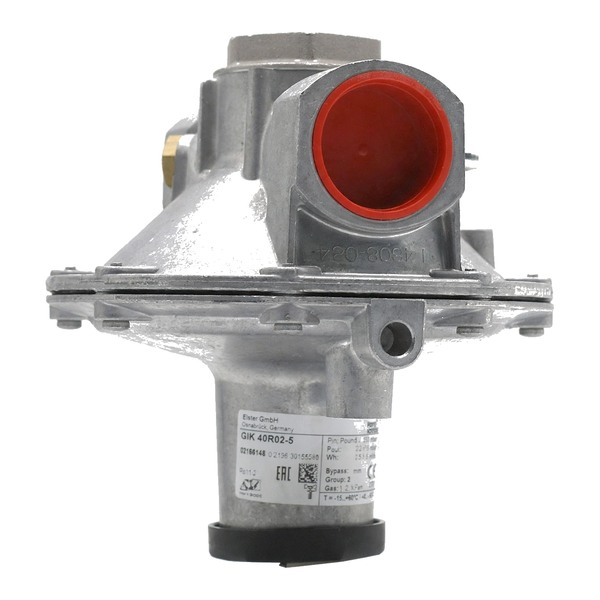
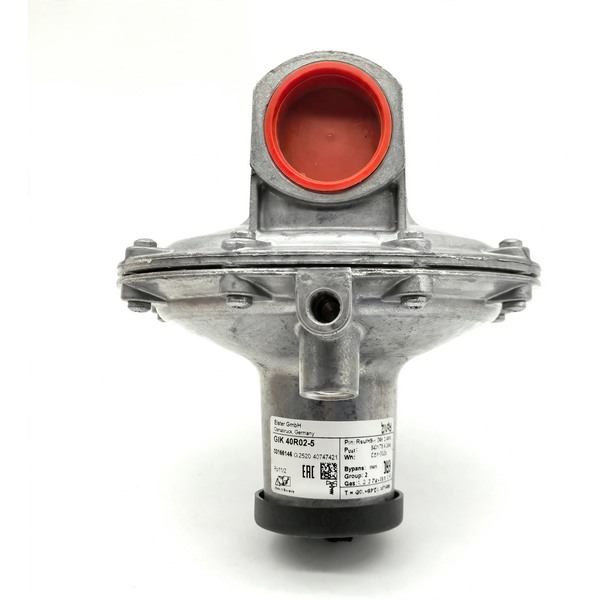
Update GIK 40R02-5 photo and correct Part No. to 03166146
Clearer nameplate photo shows Part No. 03166146, not the earlier-read
02166148 (misread from a blurry photo). Corrected across product page,
products-data.js, related-products-data.js, ratio-regulators category
pages, and the Honeywell Kromschröder brand page; product image replaced.

Claude-Session: https://claude.ai/code/session_01LFexn24yUqWXWk5Q2oJaXx

diff --git a/products/kromschroder-gik-40r02-5-ratio-regulator.html b/products/kromschroder-gik-40r02-5-ratio-regulator.html
@@ -10,12 +10,12 @@
 <link rel="icon" type="image/png" sizes="32x32" href="../images/favicon-32.png">
 <link rel="apple-touch-icon" sizes="180x180" href="../images/apple-touch-icon-180.png">
 <title>Honeywell Kromschröder GIK 40R02-5 Air/Gas Ratio | RKIC</title>
-<meta name="description" content="Honeywell Kromschröder GIK 40R02-5 Air/Gas Ratio Regulator — Ratio Regulators. Model: GIK 40R02-5. Part No.: 02166148. Trusted supplier across India.">
-<meta name="keywords" content="Honeywell Kromschröder, GIK 40R02-5, 02166148, Air Gas Ratio Regulator, Ratio Control, Ratio Regulator, Honeywell Kromschröder GIK 40R02-5 Air Gas Ratio Regulator, Surat, Gujarat, India, industrial instruments">
+<meta name="description" content="Honeywell Kromschröder GIK 40R02-5 Air/Gas Ratio Regulator — Ratio Regulators. Model: GIK 40R02-5. Part No.: 03166146. Trusted supplier across India.">
+<meta name="keywords" content="Honeywell Kromschröder, GIK 40R02-5, 03166146, Air Gas Ratio Regulator, Ratio Control, Ratio Regulator, Honeywell Kromschröder GIK 40R02-5 Air Gas Ratio Regulator, Surat, Gujarat, India, industrial instruments">
 <link rel="canonical" href="https://rkic1976-bot.github.io/RKIC-SITE/products/kromschroder-gik-40r02-5-ratio-regulator.html">
 <meta property="og:type" content="product">
 <meta property="og:title" content="Honeywell Kromschröder GIK 40R02-5 Air/Gas Ratio Regulator">
-<meta property="og:description" content="The Honeywell Kromschröder GIK 40R02-5 (Part No. 02166148) is an air/gas ratio control that maintains a constant 1:1 gas/air pressure ratio (1:10 turndown) upstream of gas burners in systems without preheated combustion air. Sized for DN 40 / Rp 1½ connections, it is rated for a maximum inlet pressure of 200 mbar, a control (load) pressure range of 0.5 to 120 mbar, an outlet (gas) pressure range of 0.2 to 119 mbar, and a maximum differential pressure of 100 mbar. Suitable for natural gas, town gas, LPG (gaseous) and biogas, it features an aluminium-silicon alloy housing with NBR diaphragms and seals, a brass bypass screw, and an outlet pressure test point, rated for &minus;15°C to +60°C ambient operation (per nameplate). EU certified to (EU) 2016/426 (GAR) and EN 88-1:2011+A1:2016. Manufactured by Honeywell Kromschröder (Elster GmbH, Osnabrück, Germany).">
+<meta property="og:description" content="The Honeywell Kromschröder GIK 40R02-5 (Part No. 03166146) is an air/gas ratio control that maintains a constant 1:1 gas/air pressure ratio (1:10 turndown) upstream of gas burners in systems without preheated combustion air. Sized for DN 40 / Rp 1½ connections, it is rated for a maximum inlet pressure of 200 mbar, a control (load) pressure range of 0.5 to 120 mbar, an outlet (gas) pressure range of 0.2 to 119 mbar, and a maximum differential pressure of 100 mbar. Suitable for natural gas, town gas, LPG (gaseous) and biogas, it features an aluminium-silicon alloy housing with NBR diaphragms and seals, a brass bypass screw, and an outlet pressure test point, rated for &minus;15°C to +60°C ambient operation (per nameplate). EU certified to (EU) 2016/426 (GAR) and EN 88-1:2011+A1:2016. Manufactured by Honeywell Kromschröder (Elster GmbH, Osnabrück, Germany).">
 <meta property="og:url" content="https://rkic1976-bot.github.io/RKIC-SITE/products/kromschroder-gik-40r02-5-ratio-regulator.html">
 <meta property="og:image" content="https://rkic1976-bot.github.io/RKIC-SITE/images/kromschroder-gik-40r02-5-ratio-regulator-large.jpg">
 <meta property="og:image:width" content="1100">
@@ -23,9 +23,9 @@
 <meta property="og:site_name" content="R.K. Instruments &amp; Controls">
 <meta name="twitter:card" content="summary_large_image">
 <meta name="twitter:title" content="Honeywell Kromschröder GIK 40R02-5 Air/Gas Ratio Regulator">
-<meta name="twitter:description" content="The Honeywell Kromschröder GIK 40R02-5 (Part No. 02166148) is an air/gas ratio control that maintains a constant 1:1 gas/air pressure ratio (1:10 turndown) upstream of gas burners in systems without preheated combustion air. Sized for DN 40 / Rp 1½ connections, it is rated for a maximum inlet pressure of 200 mbar, a control (load) pressure range of 0.5 to 120 mbar, an outlet (gas) pressure range of 0.2 to 119 mbar, and a maximum differential pressure of 100 mbar. Suitable for natural gas, town gas, LPG (gaseous) and biogas, it features an aluminium-silicon alloy housing with NBR diaphragms and seals, a brass bypass screw, and an outlet pressure test point, rated for &minus;15°C to +60°C ambient operation (per nameplate). EU certified to (EU) 2016/426 (GAR) and EN 88-1:2011+A1:2016. Manufactured by Honeywell Kromschröder (Elster GmbH, Osnabrück, Germany).">
+<meta name="twitter:description" content="The Honeywell Kromschröder GIK 40R02-5 (Part No. 03166146) is an air/gas ratio control that maintains a constant 1:1 gas/air pressure ratio (1:10 turndown) upstream of gas burners in systems without preheated combustion air. Sized for DN 40 / Rp 1½ connections, it is rated for a maximum inlet pressure of 200 mbar, a control (load) pressure range of 0.5 to 120 mbar, an outlet (gas) pressure range of 0.2 to 119 mbar, and a maximum differential pressure of 100 mbar. Suitable for natural gas, town gas, LPG (gaseous) and biogas, it features an aluminium-silicon alloy housing with NBR diaphragms and seals, a brass bypass screw, and an outlet pressure test point, rated for &minus;15°C to +60°C ambient operation (per nameplate). EU certified to (EU) 2016/426 (GAR) and EN 88-1:2011+A1:2016. Manufactured by Honeywell Kromschröder (Elster GmbH, Osnabrück, Germany).">
 <meta name="twitter:image" content="https://rkic1976-bot.github.io/RKIC-SITE/images/kromschroder-gik-40r02-5-ratio-regulator-large.jpg">
-<script type="application/ld+json">{"@context":"https://schema.org","@type":"Product","name":"Honeywell Kromschröder GIK 40R02-5 Air/Gas Ratio Regulator","sku":"02166148","mpn":"02166148","description":"The Honeywell Kromschröder GIK 40R02-5 (Part No. 02166148) is an air/gas ratio control that maintains a constant 1:1 gas/air pressure ratio (1:10 turndown) upstream of gas burners in systems without preheated combustion air. Sized for DN 40 / Rp 1½ connections, it is rated for a maximum inlet pressure of 200 mbar, a control (load) pressure range of 0.5 to 120 mbar, an outlet (gas) pressure range of 0.2 to 119 mbar, and a maximum differential pressure of 100 mbar. Suitable for natural gas, town gas, LPG (gaseous) and biogas, it features an aluminium-silicon alloy housing with NBR diaphragms and seals, a brass bypass screw, and an outlet pressure test point, rated for -15°C to +60°C ambient operation (per nameplate). EU certified to (EU) 2016/426 (GAR) and EN 88-1:2011+A1:2016. Manufactured by Honeywell Kromschröder (Elster GmbH, Osnabrück, Germany).","brand":{"@type":"Brand","name":"Honeywell Kromschröder"},"category":"RATIO REGULATORS","manufacturer":{"@type":"Organization","name":"Honeywell Kromschröder"},"image":"https://rkic1976-bot.github.io/RKIC-SITE/images/kromschroder-gik-40r02-5-ratio-regulator-large.jpg","url":"https://rkic1976-bot.github.io/RKIC-SITE/products/kromschroder-gik-40r02-5-ratio-regulator.html","offers":{"@type":"Offer","availability":"https://schema.org/InStock","priceCurrency":"INR","url":"https://rkic1976-bot.github.io/RKIC-SITE/products/kromschroder-gik-40r02-5-ratio-regulator.html","seller":{"@type":"Organization","name":"R.K. Instruments & Controls"}}}</script>
+<script type="application/ld+json">{"@context":"https://schema.org","@type":"Product","name":"Honeywell Kromschröder GIK 40R02-5 Air/Gas Ratio Regulator","sku":"03166146","mpn":"03166146","description":"The Honeywell Kromschröder GIK 40R02-5 (Part No. 03166146) is an air/gas ratio control that maintains a constant 1:1 gas/air pressure ratio (1:10 turndown) upstream of gas burners in systems without preheated combustion air. Sized for DN 40 / Rp 1½ connections, it is rated for a maximum inlet pressure of 200 mbar, a control (load) pressure range of 0.5 to 120 mbar, an outlet (gas) pressure range of 0.2 to 119 mbar, and a maximum differential pressure of 100 mbar. Suitable for natural gas, town gas, LPG (gaseous) and biogas, it features an aluminium-silicon alloy housing with NBR diaphragms and seals, a brass bypass screw, and an outlet pressure test point, rated for -15°C to +60°C ambient operation (per nameplate). EU certified to (EU) 2016/426 (GAR) and EN 88-1:2011+A1:2016. Manufactured by Honeywell Kromschröder (Elster GmbH, Osnabrück, Germany).","brand":{"@type":"Brand","name":"Honeywell Kromschröder"},"category":"RATIO REGULATORS","manufacturer":{"@type":"Organization","name":"Honeywell Kromschröder"},"image":"https://rkic1976-bot.github.io/RKIC-SITE/images/kromschroder-gik-40r02-5-ratio-regulator-large.jpg","url":"https://rkic1976-bot.github.io/RKIC-SITE/products/kromschroder-gik-40r02-5-ratio-regulator.html","offers":{"@type":"Offer","availability":"https://schema.org/InStock","priceCurrency":"INR","url":"https://rkic1976-bot.github.io/RKIC-SITE/products/kromschroder-gik-40r02-5-ratio-regulator.html","seller":{"@type":"Organization","name":"R.K. Instruments & Controls"}}}</script>
 <script type="application/ld+json">{"@context": "https://schema.org", "@type": "BreadcrumbList", "itemListElement": [{"@type": "ListItem", "position": 1, "name": "Home", "item": "https://rkic1976-bot.github.io/RKIC-SITE/"}, {"@type": "ListItem", "position": 2, "name": "Catalog", "item": "https://rkic1976-bot.github.io/RKIC-SITE/#catalog"}, {"@type": "ListItem", "position": 3, "name": "Ratio Regulators", "item": "https://rkic1976-bot.github.io/RKIC-SITE/categories/ratio-regulators.html"}, {"@type": "ListItem", "position": 4, "name": "Honeywell Kromschröder GIK 40R02-5 Air/Gas Ratio Regulator", "item": "https://rkic1976-bot.github.io/RKIC-SITE/products/kromschroder-gik-40r02-5-ratio-regulator.html"}]}</script>
 <link rel="preconnect" href="https://fonts.googleapis.com">
 <link href="https://fonts.googleapis.com/css2?family=Barlow+Condensed:wght@500;600;700&family=Barlow:wght@400;500;600&family=IBM+Plex+Mono:wght@400;500&display=swap" rel="stylesheet">
@@ -570,25 +570,25 @@ nav.links .nav-drop-btn:hover{ color:var(--ink); }
   <a class="pg-back" href="../categories/ratio-regulators.html">&larr; Back to Ratio Regulators</a>
   <div class="pg-grid">
     <div class="pg-img-box" id="pgImgBox">
-      <img src="../images/kromschroder-gik-40r02-5-ratio-regulator-large.webp" alt="Honeywell Kromschr&ouml;der GIK 40R02-5 Air/Gas Ratio Regulator &mdash; Ratio Regulators by Honeywell Kromschr&ouml;der, Part No. 02166148, DN40 Rp1.5" loading="lazy">
+      <img src="../images/kromschroder-gik-40r02-5-ratio-regulator-large.webp" alt="Honeywell Kromschr&ouml;der GIK 40R02-5 Air/Gas Ratio Regulator &mdash; Ratio Regulators by Honeywell Kromschr&ouml;der, Part No. 03166146, DN40 Rp1.5" loading="lazy">
       <span class="pg-zoom-hint" aria-hidden="true"><svg viewBox="0 0 24 24" fill="none" stroke="currentColor" stroke-width="2"><circle cx="11" cy="11" r="7"></circle><line x1="21" y1="21" x2="16.65" y2="16.65"></line><line x1="8" y1="11" x2="14" y2="11"></line><line x1="11" y1="8" x2="11" y2="14"></line></svg></span>
     </div>
     <div class="pg-lightbox" id="pgLightbox">
       <button class="pg-lightbox-close" id="pgLightboxClose" aria-label="Close">&times;</button>
-      <img src="../images/kromschroder-gik-40r02-5-ratio-regulator-large.webp" alt="Honeywell Kromschr&ouml;der GIK 40R02-5 Air/Gas Ratio Regulator &mdash; Ratio Regulators by Honeywell Kromschr&ouml;der, Part No. 02166148, DN40 Rp1.5 — zoomed view">
+      <img src="../images/kromschroder-gik-40r02-5-ratio-regulator-large.webp" alt="Honeywell Kromschr&ouml;der GIK 40R02-5 Air/Gas Ratio Regulator &mdash; Ratio Regulators by Honeywell Kromschr&ouml;der, Part No. 03166146, DN40 Rp1.5 — zoomed view">
     </div>
     <div>
       <div class="pg-tags">
         <span class="pg-tag">Ratio Regulators</span>
         <span class="pg-tag" style="display:inline-flex;align-items:center;padding:4px 10px;"><img class="pg-brand-logo" src="../images/pg-logos/pg-logo-honeywell-kromschroder.webp" alt="Honeywell Kromschröder logo"></span>
-        <span class="pg-tag">02166148</span>
+        <span class="pg-tag">03166146</span>
       </div>
       <h1 class="pg-title">Honeywell Kromschröder GIK 40R02-5 Air/Gas Ratio Regulator</h1>
-      <div class="pg-code mono">Product Code: 02166148 · GIK 40R02-5</div>
+      <div class="pg-code mono">Product Code: 03166146 · GIK 40R02-5</div>
       <div class="pg-specs">
 <div class="pg-spec-row"><span class="pg-spec-k">Model</span><span class="pg-spec-v">GIK 40R02-5</span></div>
 <div class="pg-spec-row"><span class="pg-spec-k">Type</span><span class="pg-spec-v">Air/Gas Ratio Control (Continuous Control, Bypass Group 2)</span></div>
-<div class="pg-spec-row"><span class="pg-spec-k">Part No.</span><span class="pg-spec-v">02166148</span></div>
+<div class="pg-spec-row"><span class="pg-spec-k">Part No.</span><span class="pg-spec-v">03166146</span></div>
 <div class="pg-spec-row"><span class="pg-spec-k">Connection Size</span><span class="pg-spec-v">DN 40, Rp 1&frac12; (internal thread)</span></div>
 <div class="pg-spec-row"><span class="pg-spec-k">Transmission Ratio</span><span class="pg-spec-v">1:1 (1:10 turndown)</span></div>
 <div class="pg-spec-row"><span class="pg-spec-k">Maximum Inlet Pressure</span><span class="pg-spec-v">200 mbar</span></div>
@@ -602,7 +602,7 @@ nav.links .nav-drop-btn:hover{ color:var(--ink); }
 <div class="pg-spec-row"><span class="pg-spec-k">Approvals</span><span class="pg-spec-v">EU certified &mdash; (EU) 2016/426 (GAR), EN 88-1:2011+A1:2016</span></div>
 <div class="pg-spec-row"><span class="pg-spec-k">Manufacturer</span><span class="pg-spec-v">Honeywell Kromschr&ouml;der (Elster GmbH, Osnabr&uuml;ck, Germany)</span></div>
       </div>
-      <p class="pg-desc">The Honeywell Kromschr&ouml;der GIK 40R02-5 (Part No. 02166148) is an air/gas ratio control that maintains a constant 1:1 gas/air pressure ratio (1:10 turndown) upstream of gas burners in systems without preheated combustion air. Sized for DN 40 / Rp 1&frac12; connections, it is rated for a maximum inlet pressure of 200 mbar, a control (load) pressure range of 0.5 to 120 mbar, an outlet (gas) pressure range of 0.2 to 119 mbar, and a maximum differential pressure of 100 mbar. Suitable for natural gas, town gas, LPG (gaseous) and biogas, it features an aluminium-silicon alloy housing with NBR diaphragms and seals, a brass bypass screw, and an outlet pressure test point, rated for &minus;15&deg;C to +60&deg;C ambient operation (per nameplate). EU certified to (EU) 2016/426 (GAR) and EN 88-1:2011+A1:2016. Manufactured by Honeywell Kromschr&ouml;der (Elster GmbH, Osnabr&uuml;ck, Germany).</p>
+      <p class="pg-desc">The Honeywell Kromschr&ouml;der GIK 40R02-5 (Part No. 03166146) is an air/gas ratio control that maintains a constant 1:1 gas/air pressure ratio (1:10 turndown) upstream of gas burners in systems without preheated combustion air. Sized for DN 40 / Rp 1&frac12; connections, it is rated for a maximum inlet pressure of 200 mbar, a control (load) pressure range of 0.5 to 120 mbar, an outlet (gas) pressure range of 0.2 to 119 mbar, and a maximum differential pressure of 100 mbar. Suitable for natural gas, town gas, LPG (gaseous) and biogas, it features an aluminium-silicon alloy housing with NBR diaphragms and seals, a brass bypass screw, and an outlet pressure test point, rated for &minus;15&deg;C to +60&deg;C ambient operation (per nameplate). EU certified to (EU) 2016/426 (GAR) and EN 88-1:2011+A1:2016. Manufactured by Honeywell Kromschr&ouml;der (Elster GmbH, Osnabr&uuml;ck, Germany).</p>
       <div class="pg-cta">
         <a class="pg-btn pg-btn-primary" href="https://wa.me/919824136145?text=Enquiry%20for%20Honeywell%20Kromschroder%20GIK%2040R02-5%20Air%20Gas%20Ratio%20Regulator" target="_blank" rel="noopener">Enquire on WhatsApp</a>
         <a class="pg-btn pg-btn-secondary" href="../contact.html">Contact Us</a>

diff --git a/products-data.js b/products-data.js
@@ -3386,13 +3386,13 @@ const products = [
       name: "Honeywell Kromschröder GIK 40R02-5 Air/Gas Ratio Regulator",
       brand: 'Honeywell Kromschröder',
       category: 'RATIO REGULATORS',
-      code: '02166148',
+      code: '03166146',
       size: "DN 40 · Rp 1½",
       image: 'images/kromschroder-gik-40r02-5-ratio-regulator-large.webp',
       specs: {
         "Model": "GIK 40R02-5",
         "Type": "Air/Gas Ratio Control (Continuous Control, Bypass Group 2)",
-        "Part No.": "02166148",
+        "Part No.": "03166146",
         "Connection Size": "DN 40, Rp 1½ (internal thread)",
         "Transmission Ratio": "1:1 (1:10 turndown)",
         "Maximum Inlet Pressure": "200 mbar",
@@ -3406,7 +3406,7 @@ const products = [
         "Approvals": "EU certified — (EU) 2016/426 (GAR), EN 88-1:2011+A1:2016",
         "Manufacturer": "Honeywell Kromschröder (Elster GmbH, Osnabrück, Germany)"
       },
-      description: "The Honeywell Kromschröder GIK 40R02-5 (Part No. 02166148) is an air/gas ratio control that maintains a constant 1:1 gas/air pressure ratio (1:10 turndown) upstream of gas burners in systems without preheated combustion air. Sized for DN 40 / Rp 1½ connections, it is rated for a maximum inlet pressure of 200 mbar, a control (load) pressure range of 0.5 to 120 mbar, an outlet (gas) pressure range of 0.2 to 119 mbar, and a maximum differential pressure of 100 mbar. Suitable for natural gas, town gas, LPG (gaseous) and biogas, it features an aluminium-silicon alloy housing with NBR diaphragms and seals, a brass bypass screw, and an outlet pressure test point, rated for −15°C to +60°C ambient operation (per nameplate). EU certified to (EU) 2016/426 (GAR) and EN 88-1:2011+A1:2016. Manufactured by Honeywell Kromschröder (Elster GmbH, Osnabrück, Germany)."
+      description: "The Honeywell Kromschröder GIK 40R02-5 (Part No. 03166146) is an air/gas ratio control that maintains a constant 1:1 gas/air pressure ratio (1:10 turndown) upstream of gas burners in systems without preheated combustion air. Sized for DN 40 / Rp 1½ connections, it is rated for a maximum inlet pressure of 200 mbar, a control (load) pressure range of 0.5 to 120 mbar, an outlet (gas) pressure range of 0.2 to 119 mbar, and a maximum differential pressure of 100 mbar. Suitable for natural gas, town gas, LPG (gaseous) and biogas, it features an aluminium-silicon alloy housing with NBR diaphragms and seals, a brass bypass screw, and an outlet pressure test point, rated for −15°C to +60°C ambient operation (per nameplate). EU certified to (EU) 2016/426 (GAR) and EN 88-1:2011+A1:2016. Manufactured by Honeywell Kromschröder (Elster GmbH, Osnabrück, Germany)."
     },
     {
       id: 'kromschroder-gik-25r02-5-ratio-regulator',

diff --git a/related-products-data.js b/related-products-data.js
@@ -169,7 +169,7 @@ const RKIC_PRODUCTS = [
   {id:"kromschroder-kfm-60-rb-63-pressure-gauge", name:"Honeywell Kromschröder KFM 60 RB 63 Pressure Gauge", brand:"Honeywell Kromschröder", category:"PRESSURE GAUGES", subcategory:null, code:"03200179", thumb:"../images/thumbs/kromschroder-kfm-60-rb-63-pressure-gauge-thumb.webp"},
   {id:"kromschroder-kfm-40-pressure-gauge", name:"Honeywell Kromschröder KFM 40 Pressure Gauge", brand:"Honeywell Kromschröder", category:"PRESSURE GAUGES", subcategory:null, code:"KFM 40", thumb:"../images/thumbs/kromschroder-kfm-40-pressure-gauge-thumb.webp"},
   {id:"kromschroder-gik-20r02-5-ratio-regulator", name:"Honeywell Kromschröder GIK 20R02-5 Air/Gas Ratio Regulator", brand:"Honeywell Kromschröder", category:"RATIO REGULATORS", subcategory:null, code:"03155122", thumb:"../images/thumbs/kromschroder-gik-20r02-5-ratio-regulator-thumb.webp"},
-  {id:"kromschroder-gik-40r02-5-ratio-regulator", name:"Honeywell Kromschröder GIK 40R02-5 Air/Gas Ratio Regulator", brand:"Honeywell Kromschröder", category:"RATIO REGULATORS", subcategory:null, code:"02166148", thumb:"../images/thumbs/kromschroder-gik-40r02-5-ratio-regulator-thumb.webp"},
+  {id:"kromschroder-gik-40r02-5-ratio-regulator", name:"Honeywell Kromschröder GIK 40R02-5 Air/Gas Ratio Regulator", brand:"Honeywell Kromschröder", category:"RATIO REGULATORS", subcategory:null, code:"03166146", thumb:"../images/thumbs/kromschroder-gik-40r02-5-ratio-regulator-thumb.webp"},
   {id:"kromschroder-gik-25r02-5-ratio-regulator", name:"Honeywell Kromschröder GIK 25R02-5 Air/Gas Ratio Regulator", brand:"Honeywell Kromschröder", category:"RATIO REGULATORS", subcategory:null, code:"02166134", thumb:"../images/thumbs/kromschroder-gik-25r02-5-ratio-regulator-thumb.webp"},
   {id:"vanaz-r2301-oxygen-pressure-regulator", name:"Vanaz R2301 Oxygen Regulator", brand:"Vanaz", category:"PRESSURE REGULATOR VALVES", subcategory:"Oxygen Regulator", code:"R2301", thumb:"../images/thumbs/vanaz-r2301-oxygen-pressure-regulator-thumb.webp"},
   {id:"danfoss-ebi4-1p-ignition-transformer", name:"Danfoss EBI4 1P Ignition Transformer", brand:"Danfoss", category:"IGNITION TRANSFORMERS", subcategory:"Ignition Transformer", code:"052F4040", thumb:"../images/thumbs/danfoss-ebi4-1p-ignition-transformer-thumb.webp"},

diff --git a/categories/ratio-regulators.html b/categories/ratio-regulators.html
@@ -603,7 +603,7 @@ nav.links .nav-drop-btn:hover{ color:var(--ink); }
     <a href="../products/kromschroder-gik-40r02-5-ratio-regulator.html" class="related-card" data-brand="Honeywell Kromschröder">
   <div class="related-thumb"><img src="../images/thumbs/kromschroder-gik-40r02-5-ratio-regulator-thumb.webp" alt="Honeywell Kromschröder GIK 40R02-5 Air/Gas Ratio Regulator" loading="lazy"><span class="related-zoom-btn" data-zoom-src="../images/kromschroder-gik-40r02-5-ratio-regulator-large.webp" data-zoom-alt="Honeywell Kromschröder GIK 40R02-5 Air/Gas Ratio Regulator" aria-hidden="true"><svg viewBox="0 0 24 24" fill="none" stroke="currentColor" stroke-width="2"><circle cx="11" cy="11" r="7"></circle><line x1="21" y1="21" x2="16.65" y2="16.65"></line><line x1="8" y1="11" x2="14" y2="11"></line><line x1="11" y1="8" x2="11" y2="14"></line></svg></span></div>
   <div class="related-name">Honeywell Kromschröder GIK 40R02-5 Air/Gas Ratio Regulator</div>
-  <div class="related-code">Honeywell Kromschröder &middot; Code 02166148</div>
+  <div class="related-code">Honeywell Kromschröder &middot; Code 03166146</div>
 </a>
     <a href="../products/madas-ag-rc-dn25-ratio-regulator.html" class="related-card" data-brand="Madas">
   <div class="related-thumb"><img src="../images/thumbs/madas-ag-rc-dn25-ratio-regulator-thumb.webp" alt="Madas AG/RC DN25 Air/Gas Ratio Regulator" loading="lazy"><span class="related-zoom-btn" data-zoom-src="../images/madas-ag-rc-dn25-ratio-regulator-large.webp" data-zoom-alt="Madas AG/RC DN25 Air/Gas Ratio Regulator" aria-hidden="true"><svg viewBox="0 0 24 24" fill="none" stroke="currentColor" stroke-width="2"><circle cx="11" cy="11" r="7"></circle><line x1="21" y1="21" x2="16.65" y2="16.65"></line><line x1="8" y1="11" x2="14" y2="11"></line><line x1="11" y1="8" x2="11" y2="14"></line></svg></span></div>

diff --git a/brands/honeywell-kromschroder.html b/brands/honeywell-kromschroder.html
@@ -662,7 +662,7 @@ nav.links .nav-drop-btn:hover{ color:var(--ink); }
     <a href="../products/kromschroder-gik-40r02-5-ratio-regulator.html" class="related-card">
   <div class="related-thumb"><img src="../images/thumbs/kromschroder-gik-40r02-5-ratio-regulator-thumb.webp" alt="Honeywell Kromschröder GIK 40R02-5 Air/Gas Ratio Regulator" loading="lazy"><span class="related-zoom-btn" data-zoom-src="../images/kromschroder-gik-40r02-5-ratio-regulator-large.webp" data-zoom-alt="Honeywell Kromschröder GIK 40R02-5 Air/Gas Ratio Regulator" aria-hidden="true"><svg viewBox="0 0 24 24" fill="none" stroke="currentColor" stroke-width="2"><circle cx="11" cy="11" r="7"></circle><line x1="21" y1="21" x2="16.65" y2="16.65"></line><line x1="8" y1="11" x2="14" y2="11"></line><line x1="11" y1="8" x2="11" y2="14"></line></svg></span></div>
   <div class="related-name">Honeywell Kromschröder GIK 40R02-5 Air/Gas Ratio Regulator</div>
-  <div class="related-code">Honeywell Kromschröder &middot; Code 02166148</div>
+  <div class="related-code">Honeywell Kromschröder &middot; Code 03166146</div>
 </a>
     <a href="../products/kromschroder-connex-l4x40-ignition-spare.html" class="related-card">
   <div class="related-thumb"><img src="../images/thumbs/kromschroder-connex-l4x40-ignition-spare-thumb.webp" alt="Honeywell Kromschröder Connex Light Spring Pin L4 x 40" loading="lazy"><span class="related-zoom-btn" data-zoom-src="../images/kromschroder-connex-l4x40-ignition-spare-large.webp" data-zoom-alt="Honeywell Kromschröder Connex Light Spring Pin L4 x 40" aria-hidden="true"><svg viewBox="0 0 24 24" fill="none" stroke="currentColor" stroke-width="2"><circle cx="11" cy="11" r="7"></circle><line x1="21" y1="21" x2="16.65" y2="16.65"></line><line x1="8" y1="11" x2="14" y2="11"></line><line x1="11" y1="8" x2="11" y2="14"></line></svg></span></div>

diff --git a/categories/ratio-regulators-honeywell-kromschroder.html b/categories/ratio-regulators-honeywell-kromschroder.html
@@ -598,7 +598,7 @@ nav.links .nav-drop-btn:hover{ color:var(--ink); }
     <a href="../products/kromschroder-gik-40r02-5-ratio-regulator.html" class="related-card" data-brand="Honeywell Kromschröder">
   <div class="related-thumb"><img src="../images/thumbs/kromschroder-gik-40r02-5-ratio-regulator-thumb.webp" alt="Honeywell Kromschröder GIK 40R02-5 Air/Gas Ratio Regulator" loading="lazy"><span class="related-zoom-btn" data-zoom-src="../images/kromschroder-gik-40r02-5-ratio-regulator-large.webp" data-zoom-alt="Honeywell Kromschröder GIK 40R02-5 Air/Gas Ratio Regulator" aria-hidden="true"><svg viewBox="0 0 24 24" fill="none" stroke="currentColor" stroke-width="2"><circle cx="11" cy="11" r="7"></circle><line x1="21" y1="21" x2="16.65" y2="16.65"></line><line x1="8" y1="11" x2="14" y2="11"></line><line x1="11" y1="8" x2="11" y2="14"></line></svg></span></div>
   <div class="related-name">Honeywell Kromschröder GIK 40R02-5 Air/Gas Ratio Regulator</div>
-  <div class="related-code">Honeywell Kromschröder &middot; Code 02166148</div>
+  <div class="related-code">Honeywell Kromschröder &middot; Code 03166146</div>
 </a>
   </div>
 </div>
